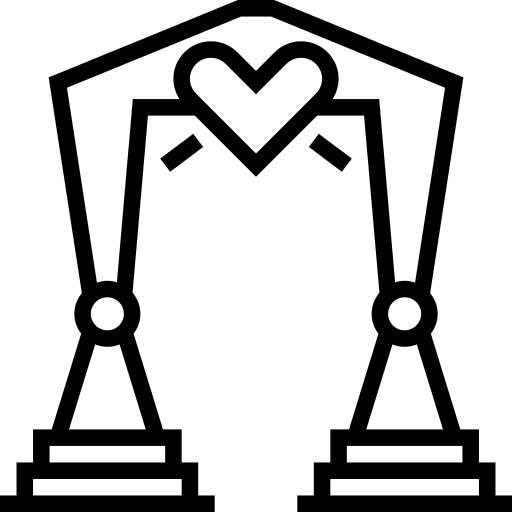
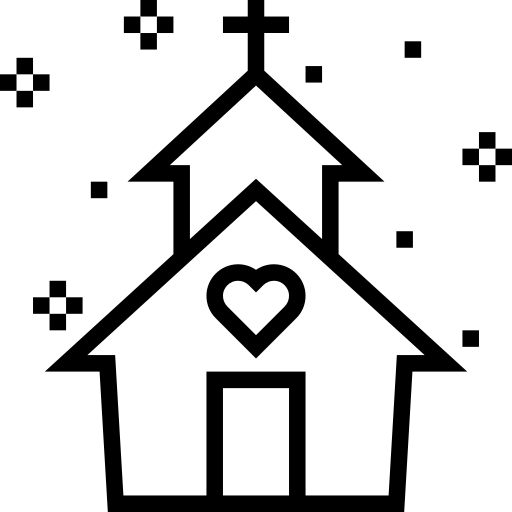
iconos actualizado, validacion de cantidad de cupos

diff --git a/main.html b/main.html
@@ -119,15 +119,6 @@
       <div class="cer-card">
         <div class="cer-icon">
           <img src="assets/images/boda-religiosa.png" alt="Boda Religiosa Logo" width="34" height="34">
-
-          <svg width="34" height="34" viewBox="0 0 34 34" fill="none" xmlns="http://www.w3.org/2000/svg">
-            <g stroke="#C1623B" stroke-width="1.2" stroke-linecap="round" stroke-linejoin="round">
-              <path d="M17 2 L17 8"/>
-              <path d="M14 5 L20 5"/>
-              <path d="M9 32 V16 L17 9 L25 16 V32"/>
-              <path d="M15 32 V23 H19 V32"/>
-            </g>
-          </svg>
         </div>
         <span class="eyebrow">Ceremonia religiosa</span>
         <h3>Parroquia San Martín de Porres</h3>
@@ -138,12 +129,7 @@
       </div>
       <div class="cer-card">
         <div class="cer-icon">
-          <svg width="34" height="34" viewBox="0 0 34 34" fill="none" xmlns="http://www.w3.org/2000/svg">
-            <g stroke="#C1623B" stroke-width="1.2" stroke-linecap="round" stroke-linejoin="round">
-              <circle cx="13" cy="17" r="8"/>
-              <circle cx="21" cy="17" r="8"/>
-            </g>
-          </svg>
+          <img src="assets/images/boda-civil.png" alt="Boda Civil Logo" width="34" height="34">
         </div>
         <span class="eyebrow">Recepción</span>
         <h3>Casa Killa</h3>
@@ -285,7 +271,7 @@
       </div>
       <div class="field">
         <label for="acompanantes">Número de acompañantes</label>
-        <input type="number" id="acompanantes" min="0" placeholder="0" value="0">
+        <input type="number" id="acompanantes" onchange="validar_cupos(this.id)" min="0" placeholder="0" value="0">
       </div>
       <button type="submit" class="btn-confirm">Confirmar asistencia</button>
       <p class="rsvp-note">Se enviará tu confirmación por WhatsApp</p>

diff --git a/js/main.js b/js/main.js
@@ -25,7 +25,7 @@ let cupos = 0;
   }
   if(cupos>0){
     document.getElementById('acompanantes').value = `${cupos}`;
-    document.getElementById('acompanantes').readOnly = true;
+    //document.getElementById('acompanantes').readOnly = true;
   }
 })();
 
@@ -167,5 +167,19 @@ function toggleMusic(){
   } else {
     audio.pause();
     btn.classList.remove('playing');
+  }
+}
+
+function validar_cupos(id){
+  const input = document.getElementById(id);
+  let valor = parseInt(input.value, 10); 
+  if (isNaN(valor) || valor < 0) {
+    input.value = 0;
+  }
+  if(cupos > 0){
+    if (valor > cupos) {
+      input.value = cupos;
+      alert(`El número máximo de acompañantes permitidos es ${cupos}.`);
+    }
   }
 }
